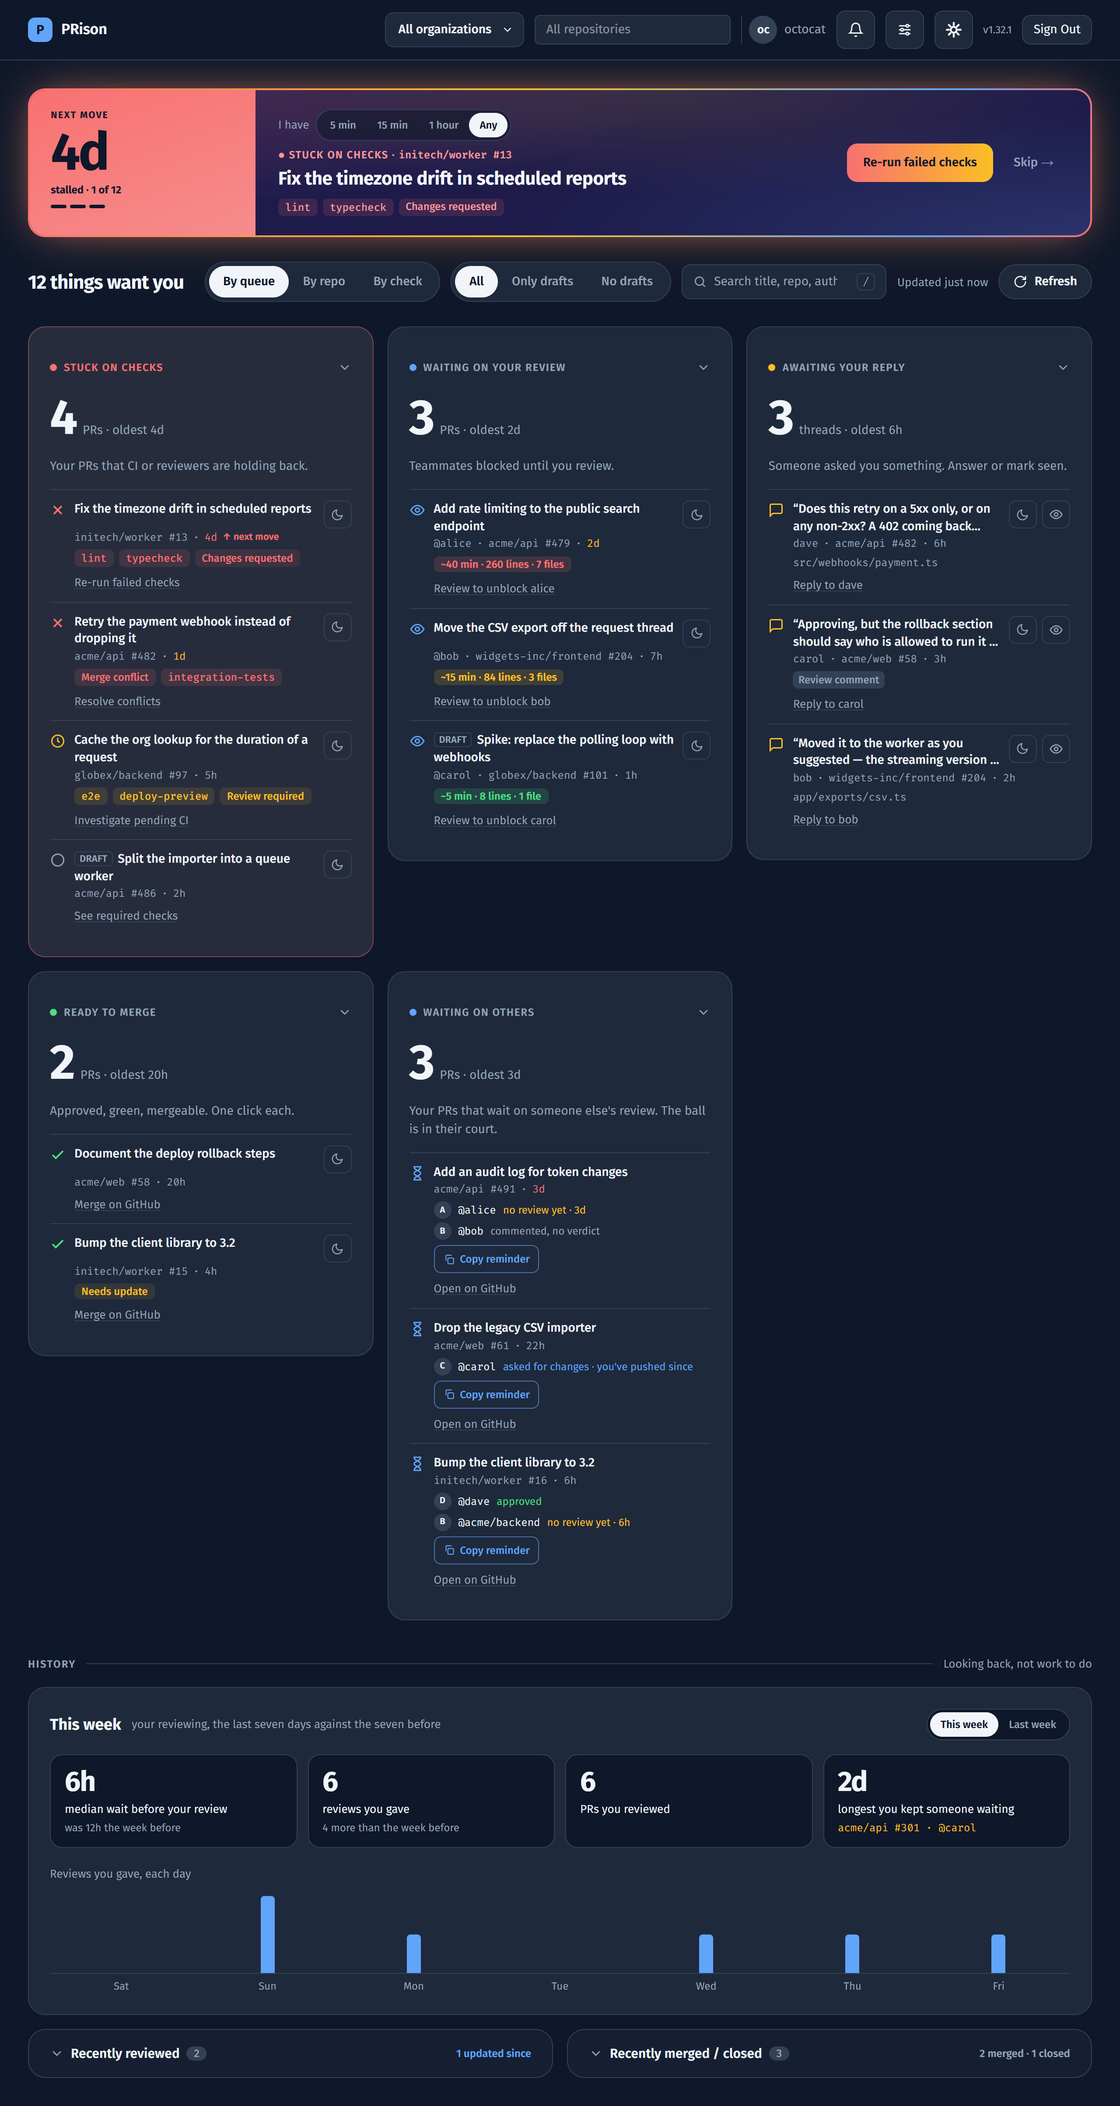
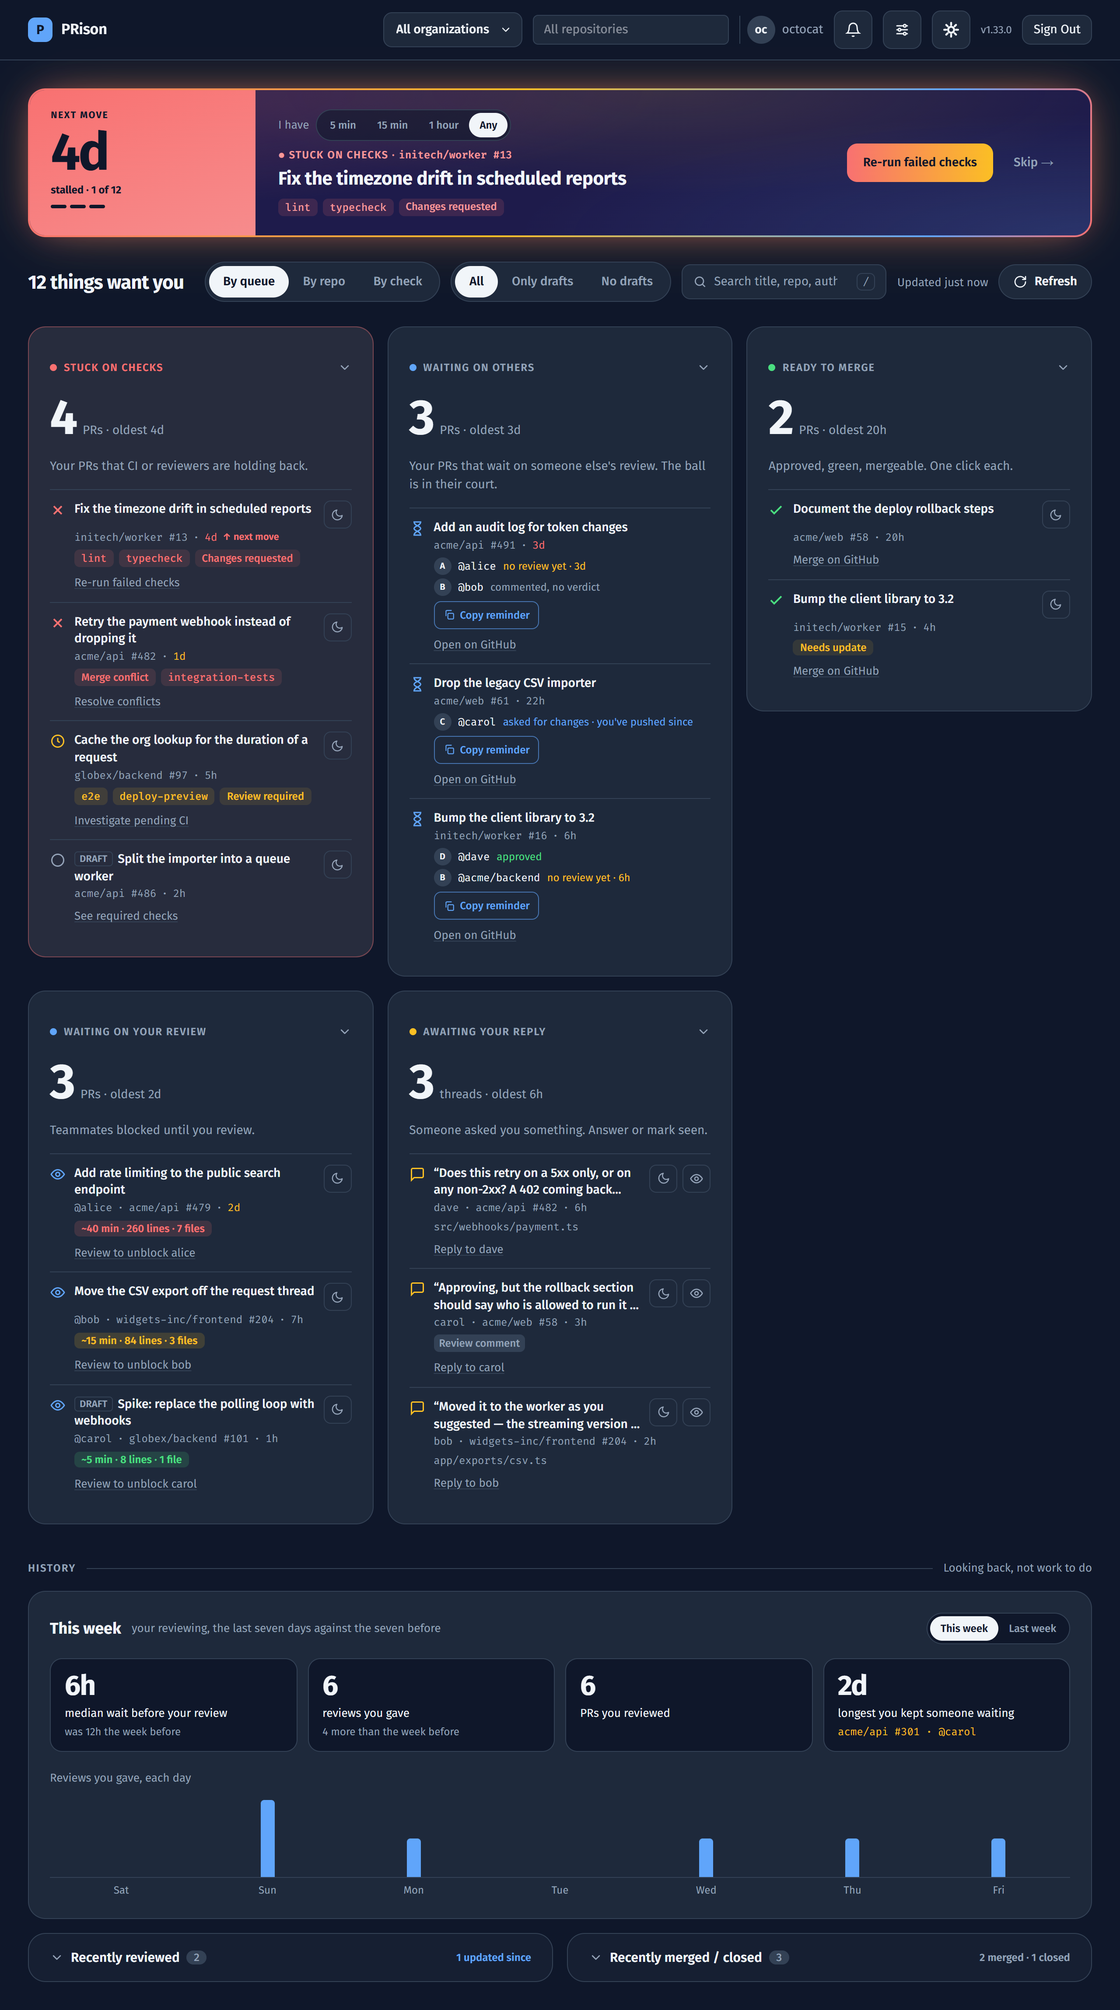
fix: order the columns your PRs by stage, then what waits on you
Columns now run Stuck on checks, Waiting on others, Ready to merge, then Waiting on your review and Awaiting your reply. README table and screenshot follow.

diff --git a/components/Dashboard.tsx b/components/Dashboard.tsx
@@ -1580,11 +1580,14 @@ export function Dashboard({ orgs, login }: DashboardProps) {
             Refresh
           </button>
         </div>
-        {/* The four work queues side by side, most urgent kind first, then the
-            one that waits on other people. Columns, not rows: a row is as tall
-            as its tallest cell, and each queue grows on its own. Grouping by
-            repo or check happens inside each column, so the queue a PR belongs
-            to never changes with the view. */}
+        {/* Two groups, left to right. First your own PRs by stage: held back
+            (stuck), waiting on a reviewer, ready to merge. Then the queues where
+            someone waits on you: a review, a reply. At three columns the first
+            row is your PRs and the second is everyone else's.
+
+            Columns, not rows: a row is as tall as its tallest cell, and each
+            queue grows on its own. Grouping by repo or check happens inside each
+            column, so the queue a PR belongs to never changes with the view. */}
         <div className="grid grid-cols-1 items-start gap-4 md:grid-cols-2 xl:grid-cols-3 2xl:grid-cols-5">
           <div className="flex flex-col gap-3">
             {budgetSpent === undefined && stuckError && (
@@ -1767,6 +1770,133 @@ export function Dashboard({ orgs, login }: DashboardProps) {
             />
           </div>
           <div className="flex flex-col gap-3">
+            {budgetSpent === undefined && awaitingError && (
+              <div className="flex items-center justify-between rounded-md border border-danger/30 bg-danger/10 px-4 py-3 text-sm text-danger">
+                <span>{awaitingError}</span>
+                <button
+                  onClick={() => fetchData(selectedOrg, selectedRepo)}
+                  className="ml-4 cursor-pointer rounded bg-danger/20 px-3 py-1 text-xs font-medium text-danger transition-colors hover:bg-danger/30"
+                >
+                  Retry
+                </button>
+              </div>
+            )}
+            <PrList
+              title="Waiting on others"
+              id="waiting-on-others"
+              items={shownAwaiting}
+              emptyMessage={emptyText("None of your PRs is waiting on a reviewer")}
+              keyExtractor={(pr) => pr.id}
+              tone="accent"
+              caption={withLimit(caption(shownAwaiting.length, "PRs", shownAwaiting[0]?.waitingSince), limits.others)}
+              description="Your PRs that wait on someone else's review. The ball is in their court."
+              groupBy={groupBy === "repo" ? (pr) => pr.repo : undefined}
+              groupHref={
+                groupBy === "repo"
+                  ? (repo) => `https://github.com/${repo}`
+                  : undefined
+              }
+              renderRow={(pr) => (
+                <PrRow
+                  title={pr.title}
+                  repo={pr.repo}
+                  number={pr.number}
+                  url={pr.url}
+                  since={pr.waitingSince}
+                  now={new Date()}
+                  draft={pr.isDraft}
+                  kind="others"
+                  suggestion={{ text: "Open on GitHub", href: pr.url }}
+                  limit={limitState(pr.waitingSince, limits.others, limitNow)}
+                  detail={
+                    <AwaitingDetail
+                      pr={pr}
+                      now={new Date()}
+                      copied={copiedId === pr.id}
+                      onCopy={() => {
+                        // A clipboard the browser refuses (an insecure origin,
+                        // a denied permission) leaves the button as it was.
+                        void navigator.clipboard
+                          ?.writeText(reminderText(pr, new Date()))
+                          .then(() => {
+                            setCopiedId(pr.id);
+                            setTimeout(() => setCopiedId((id) => (id === pr.id ? null : id)), 2000);
+                          })
+                          .catch(() => {});
+                      }}
+                    />
+                  }
+                />
+              )}
+            />
+          </div>
+          <div className="flex flex-col gap-3">
+            {budgetSpent === undefined && readyError && (
+              <div className="flex items-center justify-between rounded-md border border-danger/30 bg-danger/10 px-4 py-3 text-sm text-danger">
+                <span>{readyError}</span>
+                <button
+                  onClick={() => fetchData(selectedOrg, selectedRepo)}
+                  className="ml-4 cursor-pointer rounded bg-danger/20 px-3 py-1 text-xs font-medium text-danger transition-colors hover:bg-danger/30"
+                >
+                  Retry
+                </button>
+              </div>
+            )}
+            <PrList
+              title="Ready to merge"
+              id="ready-to-merge"
+              items={shownReady}
+              emptyMessage={emptyText(
+                draftFilter === "only"
+                  ? "Drafts are never ready to merge"
+                  : "Nothing ready to merge",
+              )}
+              keyExtractor={(pr) => pr.id}
+              tone="success"
+              caption={caption(shownReady.length, "PRs", shownReady[0]?.readySince)}
+              description="Approved, green, mergeable. One click each."
+              footer={<SnoozedFold items={foldOf(visibleReady, (pr) => pr.title)} onWake={wake} />}
+              highlighted={nextMove?.tone === "success"}
+              renderRow={(pr) => (
+                <PrRow
+                  title={pr.title}
+                  repo={pr.repo}
+                  number={pr.number}
+                  url={pr.url}
+                  since={pr.readySince}
+                  now={new Date()}
+                  suggestion={suggestReady(pr)}
+                  kind="ready"
+                  marked={nextMove?.id === pr.id}
+                  aside={<SnoozeMenu title={pr.title} onSnooze={(c) => snooze(pr.id, c)} />}
+                  // A PR promoted here over a red check still says so — muted,
+                  // because the user already answered for it, but said: a card
+                  // with nothing on it would read as spotlessly green.
+                  detail={
+                    pr.needsUpdate || pr.ignoredChecks?.length ? (
+                      <div className="flex flex-wrap items-center gap-1.5">
+                        {pr.needsUpdate && (
+                          <span className="rounded-md bg-warning/10 px-2 py-0.5 text-xs font-medium leading-[normal] text-warning">
+                            Needs update
+                          </span>
+                        )}
+                        {pr.ignoredChecks?.map((name) => (
+                          <CheckChip
+                            key={`ignored-${name}`}
+                            name={name}
+                            tone="muted"
+                            ignored
+                            onToggleIgnore={() => toggleIgnore(pr.repo, name)}
+                          />
+                        ))}
+                      </div>
+                    ) : undefined
+                  }
+                />
+              )}
+            />
+          </div>
+          <div className="flex flex-col gap-3">
             {budgetSpent === undefined && reviewError && (
               <div className="flex items-center justify-between rounded-md border border-danger/30 bg-danger/10 px-4 py-3 text-sm text-danger">
                 <span>{reviewError}</span>
@@ -1922,133 +2052,6 @@ export function Dashboard({ orgs, login }: DashboardProps) {
                       )}
 
                     </span>
-                  }
-                />
-              )}
-            />
-          </div>
-          <div className="flex flex-col gap-3">
-            {budgetSpent === undefined && readyError && (
-              <div className="flex items-center justify-between rounded-md border border-danger/30 bg-danger/10 px-4 py-3 text-sm text-danger">
-                <span>{readyError}</span>
-                <button
-                  onClick={() => fetchData(selectedOrg, selectedRepo)}
-                  className="ml-4 cursor-pointer rounded bg-danger/20 px-3 py-1 text-xs font-medium text-danger transition-colors hover:bg-danger/30"
-                >
-                  Retry
-                </button>
-              </div>
-            )}
-            <PrList
-              title="Ready to merge"
-              id="ready-to-merge"
-              items={shownReady}
-              emptyMessage={emptyText(
-                draftFilter === "only"
-                  ? "Drafts are never ready to merge"
-                  : "Nothing ready to merge",
-              )}
-              keyExtractor={(pr) => pr.id}
-              tone="success"
-              caption={caption(shownReady.length, "PRs", shownReady[0]?.readySince)}
-              description="Approved, green, mergeable. One click each."
-              footer={<SnoozedFold items={foldOf(visibleReady, (pr) => pr.title)} onWake={wake} />}
-              highlighted={nextMove?.tone === "success"}
-              renderRow={(pr) => (
-                <PrRow
-                  title={pr.title}
-                  repo={pr.repo}
-                  number={pr.number}
-                  url={pr.url}
-                  since={pr.readySince}
-                  now={new Date()}
-                  suggestion={suggestReady(pr)}
-                  kind="ready"
-                  marked={nextMove?.id === pr.id}
-                  aside={<SnoozeMenu title={pr.title} onSnooze={(c) => snooze(pr.id, c)} />}
-                  // A PR promoted here over a red check still says so — muted,
-                  // because the user already answered for it, but said: a card
-                  // with nothing on it would read as spotlessly green.
-                  detail={
-                    pr.needsUpdate || pr.ignoredChecks?.length ? (
-                      <div className="flex flex-wrap items-center gap-1.5">
-                        {pr.needsUpdate && (
-                          <span className="rounded-md bg-warning/10 px-2 py-0.5 text-xs font-medium leading-[normal] text-warning">
-                            Needs update
-                          </span>
-                        )}
-                        {pr.ignoredChecks?.map((name) => (
-                          <CheckChip
-                            key={`ignored-${name}`}
-                            name={name}
-                            tone="muted"
-                            ignored
-                            onToggleIgnore={() => toggleIgnore(pr.repo, name)}
-                          />
-                        ))}
-                      </div>
-                    ) : undefined
-                  }
-                />
-              )}
-            />
-          </div>
-          <div className="flex flex-col gap-3">
-            {budgetSpent === undefined && awaitingError && (
-              <div className="flex items-center justify-between rounded-md border border-danger/30 bg-danger/10 px-4 py-3 text-sm text-danger">
-                <span>{awaitingError}</span>
-                <button
-                  onClick={() => fetchData(selectedOrg, selectedRepo)}
-                  className="ml-4 cursor-pointer rounded bg-danger/20 px-3 py-1 text-xs font-medium text-danger transition-colors hover:bg-danger/30"
-                >
-                  Retry
-                </button>
-              </div>
-            )}
-            <PrList
-              title="Waiting on others"
-              id="waiting-on-others"
-              items={shownAwaiting}
-              emptyMessage={emptyText("None of your PRs is waiting on a reviewer")}
-              keyExtractor={(pr) => pr.id}
-              tone="accent"
-              caption={withLimit(caption(shownAwaiting.length, "PRs", shownAwaiting[0]?.waitingSince), limits.others)}
-              description="Your PRs that wait on someone else's review. The ball is in their court."
-              groupBy={groupBy === "repo" ? (pr) => pr.repo : undefined}
-              groupHref={
-                groupBy === "repo"
-                  ? (repo) => `https://github.com/${repo}`
-                  : undefined
-              }
-              renderRow={(pr) => (
-                <PrRow
-                  title={pr.title}
-                  repo={pr.repo}
-                  number={pr.number}
-                  url={pr.url}
-                  since={pr.waitingSince}
-                  now={new Date()}
-                  draft={pr.isDraft}
-                  kind="others"
-                  suggestion={{ text: "Open on GitHub", href: pr.url }}
-                  limit={limitState(pr.waitingSince, limits.others, limitNow)}
-                  detail={
-                    <AwaitingDetail
-                      pr={pr}
-                      now={new Date()}
-                      copied={copiedId === pr.id}
-                      onCopy={() => {
-                        // A clipboard the browser refuses (an insecure origin,
-                        // a denied permission) leaves the button as it was.
-                        void navigator.clipboard
-                          ?.writeText(reminderText(pr, new Date()))
-                          .then(() => {
-                            setCopiedId(pr.id);
-                            setTimeout(() => setCopiedId((id) => (id === pr.id ? null : id)), 2000);
-                          })
-                          .catch(() => {});
-                      }}
-                    />
                   }
                 />
               )}

diff --git a/components/Dashboard.test.tsx b/components/Dashboard.test.tsx
@@ -2858,17 +2858,16 @@ describe("Dashboard", () => {
       ).toBeInTheDocument();
     });
 
-    it("puts the ready column after the review column", async () => {
+    it("puts the ready column last among your own PRs, before the review column", async () => {
       render(<Dashboard orgs={ORGS} login="testuser" />);
       expect(await screen.findByText("ready pr")).toBeInTheDocument();
       // Compare the sections themselves: the index above names them both, so a
       // text search of the page would only ever measure the index.
       const ready = document.getElementById("ready-to-merge")!;
+      const others = document.getElementById("waiting-on-others")!;
       const review = document.getElementById("waiting-on-your-review")!;
-      expect(
-        review.compareDocumentPosition(ready) &
-          Node.DOCUMENT_POSITION_FOLLOWING,
-      ).toBeTruthy();
+      expect(others.compareDocumentPosition(ready) & Node.DOCUMENT_POSITION_FOLLOWING).toBeTruthy();
+      expect(ready.compareDocumentPosition(review) & Node.DOCUMENT_POSITION_FOLLOWING).toBeTruthy();
     });
 
     it("includes ready-to-merge in a Refresh", async () => {
@@ -4687,16 +4686,19 @@ describe("Dashboard — tier layout", () => {
     global.fetch = okFetch();
   });
 
+  // Your own PRs by stage — held back, waiting on a reviewer, ready — then the
+  // queues where someone waits on you, then the histories.
   const SECTIONS = [
     "stuck-on-checks",
+    "waiting-on-others",
+    "ready-to-merge",
     "waiting-on-your-review",
     "comments-awaiting-reply",
-    "ready-to-merge",
     "recently-reviewed",
     "recently-closed",
   ];
 
-  it("orders the columns stuck, review, reply, ready, then the histories", async () => {
+  it("orders your PRs by stage, then the queues waiting on you, then the histories", async () => {
     render(<Dashboard orgs={ORGS} login="testuser" />);
     expect(await screen.findByText("ready pr")).toBeInTheDocument();
     const els = SECTIONS.map((id) => document.getElementById(id)!);
@@ -4719,7 +4721,7 @@ describe("Dashboard — tier layout", () => {
   it("never nests one queue inside another", async () => {
     render(<Dashboard orgs={ORGS} login="testuser" />);
     expect(await screen.findByText("ready pr")).toBeInTheDocument();
-    const queues = SECTIONS.slice(0, 4).map((id) => document.getElementById(id)!);
+    const queues = SECTIONS.slice(0, 5).map((id) => document.getElementById(id)!);
     for (const a of queues) {
       for (const b of queues) if (a !== b) expect(a.contains(b)).toBe(false);
     }

diff --git a/README.md b/README.md
@@ -17,20 +17,21 @@ anything back to GitHub.
 **[Controls](#controls)** ·
 **[Docs](#documentation)**
 
-![The PRison dashboard in dark mode. A Next move card on top points at the oldest item, 4d and stalled, a PR stuck on lint and typecheck, with an I have choice of 5 min, 15 min, 1 hour or Any, a Re-run failed checks button and Skip. Under it, 12 things want you sits beside grouping and draft toggles, a search box and Refresh. Five columns follow, each with a big count and its oldest wait: Stuck on checks, Waiting on your review with a size chip like ~15 min · 84 lines · 3 files on each row, Awaiting your reply, Ready to merge, and Waiting on others, where each PR lists its reviewers and where they stand, with a Copy reminder button. Every row has a moon to snooze it. At the foot, History opens with a This week card — median wait before your review, reviews you gave, PRs you reviewed, the longest wait — and a bar per day, above the folded Recently reviewed and Recently merged / closed panels](docs/screenshot.png)
+![The PRison dashboard in dark mode. A Next move card on top points at the oldest item, 4d and stalled, a PR stuck on lint and typecheck, with an I have choice of 5 min, 15 min, 1 hour or Any, a Re-run failed checks button and Skip. Under it, 12 things want you sits beside grouping and draft toggles, a search box and Refresh. Five columns follow, each with a big count and its oldest wait. The first row is your own PRs: Stuck on checks, Waiting on others — where each PR lists its reviewers and where they stand, with a Copy reminder button — and Ready to merge. The second row is what waits on you: Waiting on your review, with a size chip like ~15 min · 84 lines · 3 files on each row, and Awaiting your reply. Every row has a moon to snooze it. At the foot, History opens with a This week card — median wait before your review, reviews you gave, PRs you reviewed, the longest wait — and a bar per day, above the folded Recently reviewed and Recently merged / closed panels](docs/screenshot.png)
 
 ## What it shows
 
-Five columns, oldest first, with a **[Next move](#next-move)** card above them
-pointing at the one thing to do first.
+Five columns, oldest first within each, with a **[Next move](#next-move)** card
+above them pointing at the one thing to do first. Left to right, first your own
+PRs by stage, then the queues where someone waits on you:
 
-| Column | What's in it |
-| --- | --- |
-| **Stuck on checks** | Your PRs that CI, a conflict or a branch rule is holding back, with the reason on each row. |
-| **Waiting on your review** | PRs where a teammate is blocked on you, each with a rough [review time](#next-move). |
-| **Awaiting your reply** | Review comments where the last word isn't yours — on your PRs and on the threads you raised. [More](#comments-and-reviews) |
-| **Ready to merge** | Approved, green, mergeable. An out-of-date branch still counts, with **Needs update**. |
-| **Waiting on others** | Your PRs that wait on somebody else's review: who, and how long. [More](#waiting-on-others) |
+| | Column | What's in it |
+| --- | --- | --- |
+| **Your PRs** | **Stuck on checks** | Held back by CI, a conflict or a branch rule, with the reason on each row. |
+| | **Waiting on others** | Waiting on somebody else's review: who, and how long. [More](#waiting-on-others) |
+| | **Ready to merge** | Approved, green, mergeable. An out-of-date branch still counts, with **Needs update**. |
+| **Waiting on you** | **Waiting on your review** | A teammate is blocked on you; each row has a rough [review time](#next-move). |
+| | **Awaiting your reply** | Review comments where the last word isn't yours — on your PRs and on the threads you raised. [More](#comments-and-reviews) |
 
 Underneath, quieter on purpose, **History**: a [weekly look back](#looking-back)
 at your reviewing, the PRs you reviewed (with your verdict, and **Updated
